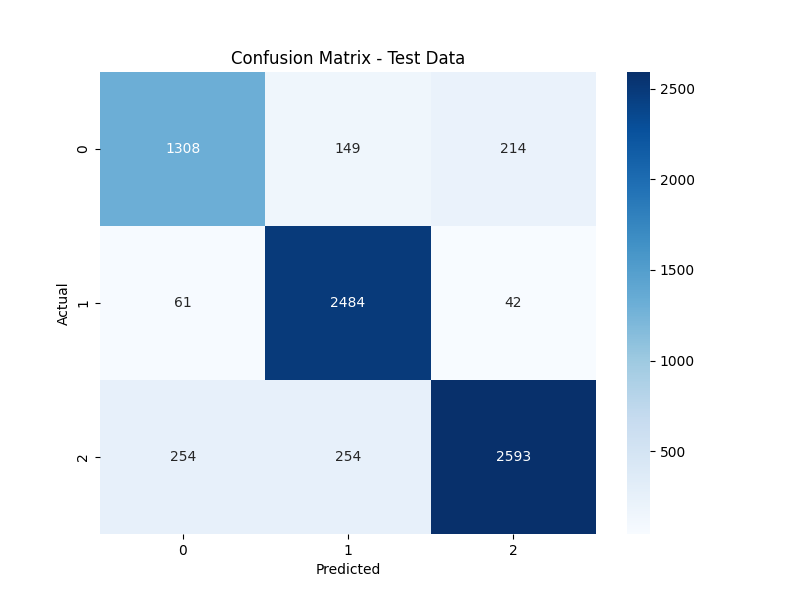
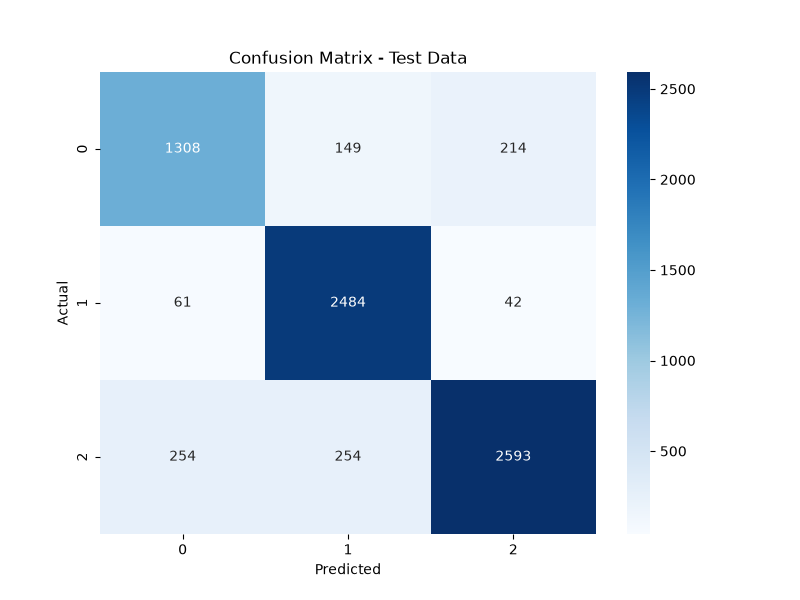
Switch MLflow tracking to SQLite backend and fix model logging
MLflow deprecated the filesystem tracking backend (./mlruns) in favor of a database backend as of Feb 2026, so the tracking URI in model_evaluation.py and register_model.py was updated to sqlite:///mlflow.db. Also fixed model logging to work with MLflow's newer skops serialization format (used instead of pickle for better security) by whitelisting the LightGBM-related types via skops_trusted_types.

diff --git a/src/model/model_evaluation.py b/src/model/model_evaluation.py
@@ -1,18 +1,27 @@
 # src/model/model_evaluation.py
 # --------------------------------------------------
 # This script checks how well our trained model performs
-# on data it has NEVER seen before (the test set).
-# It calculates precision, recall, and f1-score for each
-# sentiment category, and saves a confusion matrix image
-# so we can visually see where the model gets confused.
+# on data it has NEVER seen before (the test set), and logs
+# everything (parameters, metrics, model, confusion matrix)
+# to MLflow so we can track and compare experiment runs.
 # --------------------------------------------------
 
 import pandas as pd
 import pickle
 import json
+import yaml
+import mlflow
+import mlflow.sklearn
 from sklearn.metrics import classification_report, confusion_matrix
 import matplotlib.pyplot as plt
 import seaborn as sns
+
+
+def load_params(params_path):
+    # Open params.yaml and load all the settings
+    with open(params_path, "r") as file:
+        params = yaml.safe_load(file)
+    return params
 
 
 def load_data(file_path):
@@ -70,25 +79,78 @@ def save_report(report, output_path):
 
 
 def main():
-    # Step 1: Load the trained model and vectorizer
-    model = load_model("lgbm_model.pkl")
-    vectorizer = load_vectorizer("tfidf_vectorizer.pkl")
+    # Point MLflow to a local SQLite database file to store experiment metadata.
+    # This is MLflow's current recommended default (the old "file:./mlruns" style
+    # is now in maintenance mode and no longer supported by the UI/server).
+    # Later, in the AWS deployment phase, this will point to a remote server instead.
+    mlflow.set_tracking_uri("sqlite:///mlflow.db")
+    mlflow.set_experiment("dvc-pipeline-runs")
 
-    # Step 2: Load the cleaned test data
-    test_data = load_data("data/interim/test_processed.csv")
+    # Start a new MLflow run - everything inside this "with" block belongs to this run
+    with mlflow.start_run() as run:
+        # Step 1: Load settings from params.yaml and log them to MLflow
+        params = load_params("params.yaml")
+        for key, value in params.items():
+            mlflow.log_param(key, value)
 
-    # Step 3: Convert test comments into TF-IDF numbers using the SAME vectorizer
-    X_test_tfidf = vectorizer.transform(test_data["clean_comment"].values)
-    y_test = test_data["category"].values
+        # Step 2: Load the trained model and vectorizer
+        model = load_model("lgbm_model.pkl")
+        vectorizer = load_vectorizer("tfidf_vectorizer.pkl")
 
-    # Step 4: Evaluate the model
-    report, cm = evaluate_model(model, X_test_tfidf, y_test)
+        # Step 3: Load the cleaned test data
+        test_data = load_data("data/interim/test_processed.csv")
 
-    # Step 5: Save the results
-    save_report(report, "reports/metrics.json")
-    save_confusion_matrix(cm, "reports/figures/confusion_matrix.png")
+        # Step 4: Convert test comments into TF-IDF numbers using the SAME vectorizer
+        X_test_tfidf = vectorizer.transform(test_data["clean_comment"].values)
+        y_test = test_data["category"].values
 
-    print("Model evaluation complete! Check reports/metrics.json and reports/figures/confusion_matrix.png")
+        # Step 5: Evaluate the model
+        report, cm = evaluate_model(model, X_test_tfidf, y_test)
+
+        # Step 6: Save the results locally as files
+        save_report(report, "reports/metrics.json")
+        save_confusion_matrix(cm, "reports/figures/confusion_matrix.png")
+
+        # Step 7: Log precision, recall, and f1-score for each class to MLflow
+        for label, metrics in report.items():
+            if isinstance(metrics, dict):
+                mlflow.log_metric(f"test_{label}_precision", metrics["precision"])
+                mlflow.log_metric(f"test_{label}_recall", metrics["recall"])
+                mlflow.log_metric(f"test_{label}_f1_score", metrics["f1-score"])
+
+        # Step 8: Log the confusion matrix image and the vectorizer file as MLflow artifacts
+        mlflow.log_artifact("reports/figures/confusion_matrix.png")
+        mlflow.log_artifact("tfidf_vectorizer.pkl")
+
+        # Step 9: Log the trained model itself to MLflow.
+        # We explicitly mark these types as "trusted" because MLflow now uses
+        # the safer skops format (instead of raw pickle) to save models, which
+        # requires a whitelist of any non-standard types used inside the model.
+        mlflow.sklearn.log_model(
+            model,
+            name="lgbm_model",
+            skops_trusted_types=[
+                "collections.OrderedDict",
+                "lightgbm.basic.Booster",
+                "lightgbm.sklearn.LGBMClassifier"
+            ]
+        )
+
+        # Step 10: Add descriptive tags so this run is easy to identify later
+        mlflow.set_tag("model_type", "LightGBM")
+        mlflow.set_tag("task", "Sentiment Analysis")
+        mlflow.set_tag("dataset", "YouTube Comments")
+
+        # Step 11: Save this run's ID and model path - we will need this
+        # later when registering the model in the MLflow Model Registry
+        model_info = {
+            "run_id": run.info.run_id,
+            "model_path": "lgbm_model"
+        }
+        with open("experiment_info.json", "w") as file:
+            json.dump(model_info, file, indent=4)
+
+        print("Model evaluation complete! Metrics logged to MLflow, saved to reports/metrics.json")
 
 
 if __name__ == "__main__":

diff --git a/src/model/register_model.py b/src/model/register_model.py
@@ -1,0 +1,57 @@
+# src/model/register_model.py
+# --------------------------------------------------
+# This script takes the model we already logged to MLflow
+# (in the evaluation step) and formally registers it in the
+# MLflow Model Registry under a fixed name, with the status
+# "Staging" - meaning "this is a candidate, not live yet".
+# --------------------------------------------------
+
+import json
+import mlflow
+
+# Point to the same local SQLite database used in evaluation
+# (later this will point to a remote AWS-hosted MLflow server)
+mlflow.set_tracking_uri("sqlite:///mlflow.db")
+
+
+def load_model_info(file_path):
+    # Read the run_id and model_path that we saved during evaluation
+    with open(file_path, "r") as file:
+        model_info = json.load(file)
+    return model_info
+
+
+def register_model(model_name, model_info):
+    # Build the special MLflow URI that points to this exact model,
+    # inside this exact run
+    model_uri = f"runs:/{model_info['run_id']}/{model_info['model_path']}"
+
+    # Register the model under a fixed name in the Model Registry
+    # (if this name does not exist yet, MLflow creates it as version 1;
+    # if it already exists, MLflow adds a new version automatically)
+    model_version = mlflow.register_model(model_uri, model_name)
+
+    # Move this specific version into the "Staging" stage
+    client = mlflow.tracking.MlflowClient()
+    client.transition_model_version_stage(
+        name=model_name,
+        version=model_version.version,
+        stage="Staging"
+    )
+
+    return model_version
+
+
+def main():
+    # Step 1: Load the run_id saved by the evaluation script
+    model_info = load_model_info("experiment_info.json")
+
+    # Step 2: Register the model under a fixed name
+    model_name = "yt_chrome_plugin_model"
+    model_version = register_model(model_name, model_info)
+
+    print(f"Model registered successfully! Name: {model_name}, Version: {model_version.version}, Stage: Staging")
+
+
+if __name__ == "__main__":
+    main()